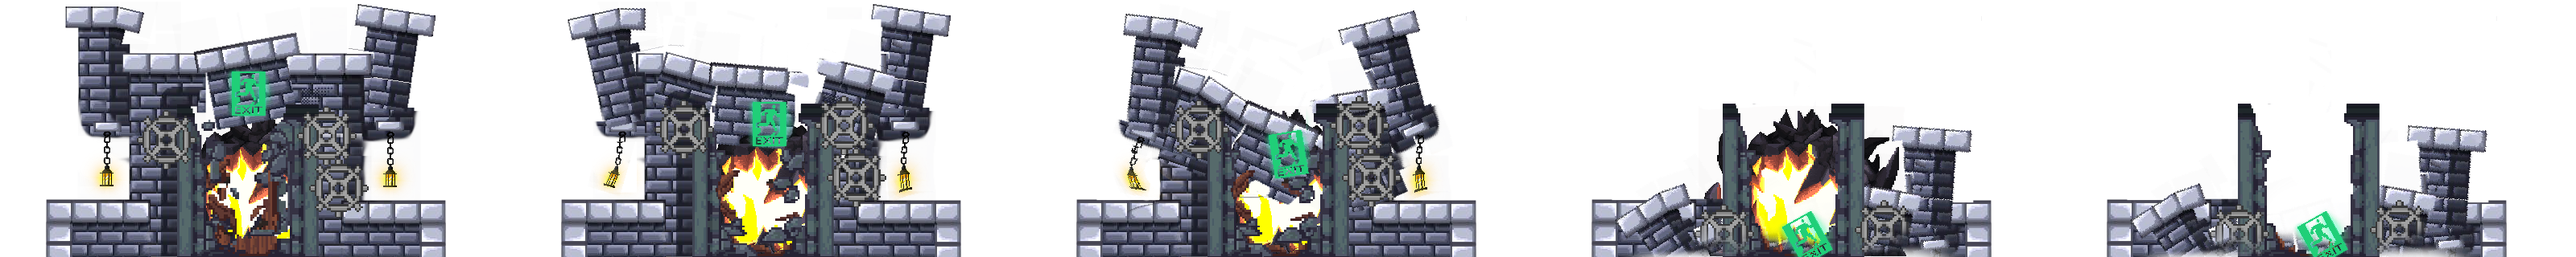
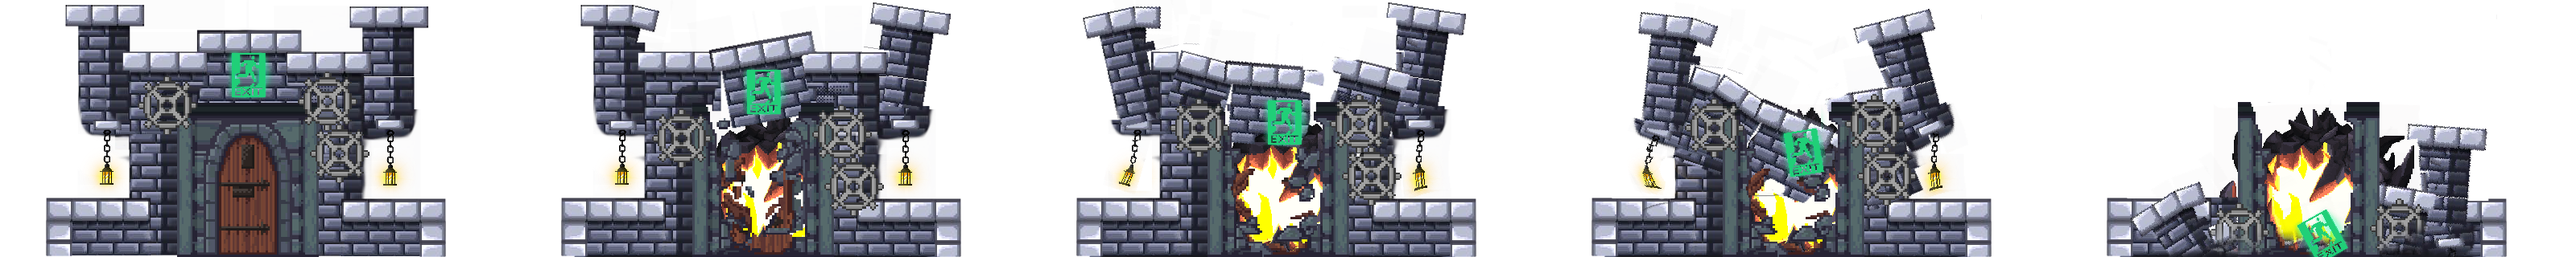
implement animation of spawn and destroy

diff --git a/src/main/java/info3/game/Model.java b/src/main/java/info3/game/Model.java
@@ -61,6 +61,8 @@ public class Model {
 	private static Map map;
 
 	static ArrayList<Vec2> spawnPoints;
+	static ArrayList<Avatar> spawnPointsBackground;
+
 	static Vec2 exitPoint;
 	public static Avatar exitAvatar;
 
@@ -149,12 +151,25 @@ public class Model {
 			exitPoint.setY(exitPoint.getY() - 4);
 			exitPoint = exitPoint.multiply(Block.SIZE);
 			exitAvatar = Controller.controller.createAvatar(exitPoint, new Vec2(1), exit);
+			spawnPointsBackground = generateSpawnBackground(spawnPoints);
 			for (Vec2 socle : blocs) {
 				Model.map.set((int) socle.getX(), (int) socle.getY(),
 						new Socle(Model.controller, socle.multiply(Block.SIZE)));
 			}
 
 		}
+	}
+
+	public static ArrayList<Avatar> generateSpawnBackground(ArrayList<Vec2> spawnBackground) {
+		ArrayList<Avatar> res = new ArrayList<>();
+		AnimatedImage sprite = new AnimatedImage("fixed_animations/spawn-area.png", 7, 100, true);
+		for (Vec2 posBackground : spawnBackground) {
+			posBackground = posBackground.add(new Vec2(-4, -3)).multiply(Block.SIZE);
+			posBackground = posBackground.add(new Vec2(0, 1));
+			Avatar bg_avatar = Controller.controller.createAvatar(posBackground, new Vec2(1), sprite);
+			res.add(bg_avatar);
+		}
+		return res;
 	}
 
 	public static void tick(long elapsed) {

diff --git a/src/main/java/info3/game/cavegenerator/SpawnGenerator4D.java b/src/main/java/info3/game/cavegenerator/SpawnGenerator4D.java
@@ -63,8 +63,9 @@ public class SpawnGenerator4D {
 				int y = (int) (Math.random() * this.height);
 
 				if (x > 15 && y < this.height - 15 && y > 15 && x < this.width - 15 && values[x][y + 1] == 1
-						&& values[x - 2][y + 1] == 1 && values[x - 1][y + 1] == 1 && values[x + 1][y + 1] == 1
-						&& values[x + 2][y + 1] == 1 && values[x + 3][y + 1] == 1 && values[x - 3][y + 1] == 1) {
+						&& values[x - 3][y + 1] == 1 && values[x - 4][y + 1] == 1 && values[x - 2][y + 1] == 1
+						&& values[x - 1][y + 1] == 1 && values[x + 1][y + 1] == 1 && values[x + 2][y + 1] == 1
+						&& values[x + 3][y + 1] == 1 && values[x + 4][y + 1] == 1 && values[x - 3][y + 1] == 1) {
 					stop = false;
 					depart += zoneLen;
 					values[x][y] = 0;

diff --git a/src/main/java/info3/game/LocalController.java b/src/main/java/info3/game/LocalController.java
@@ -57,6 +57,9 @@ public class LocalController extends Controller {
 			}
 		}
 		v.createAvatar(Model.exitAvatar);
+		for (Avatar posBgAvatar : Model.spawnPointsBackground) {
+			v.createAvatar(posBgAvatar);
+		}
 		int playerNum = Model.playerCount.getAndIncrement();
 		v.setPlayer(Player.colorFromInt(playerNum));
 		Model.spawnPlayer(playerNum);
